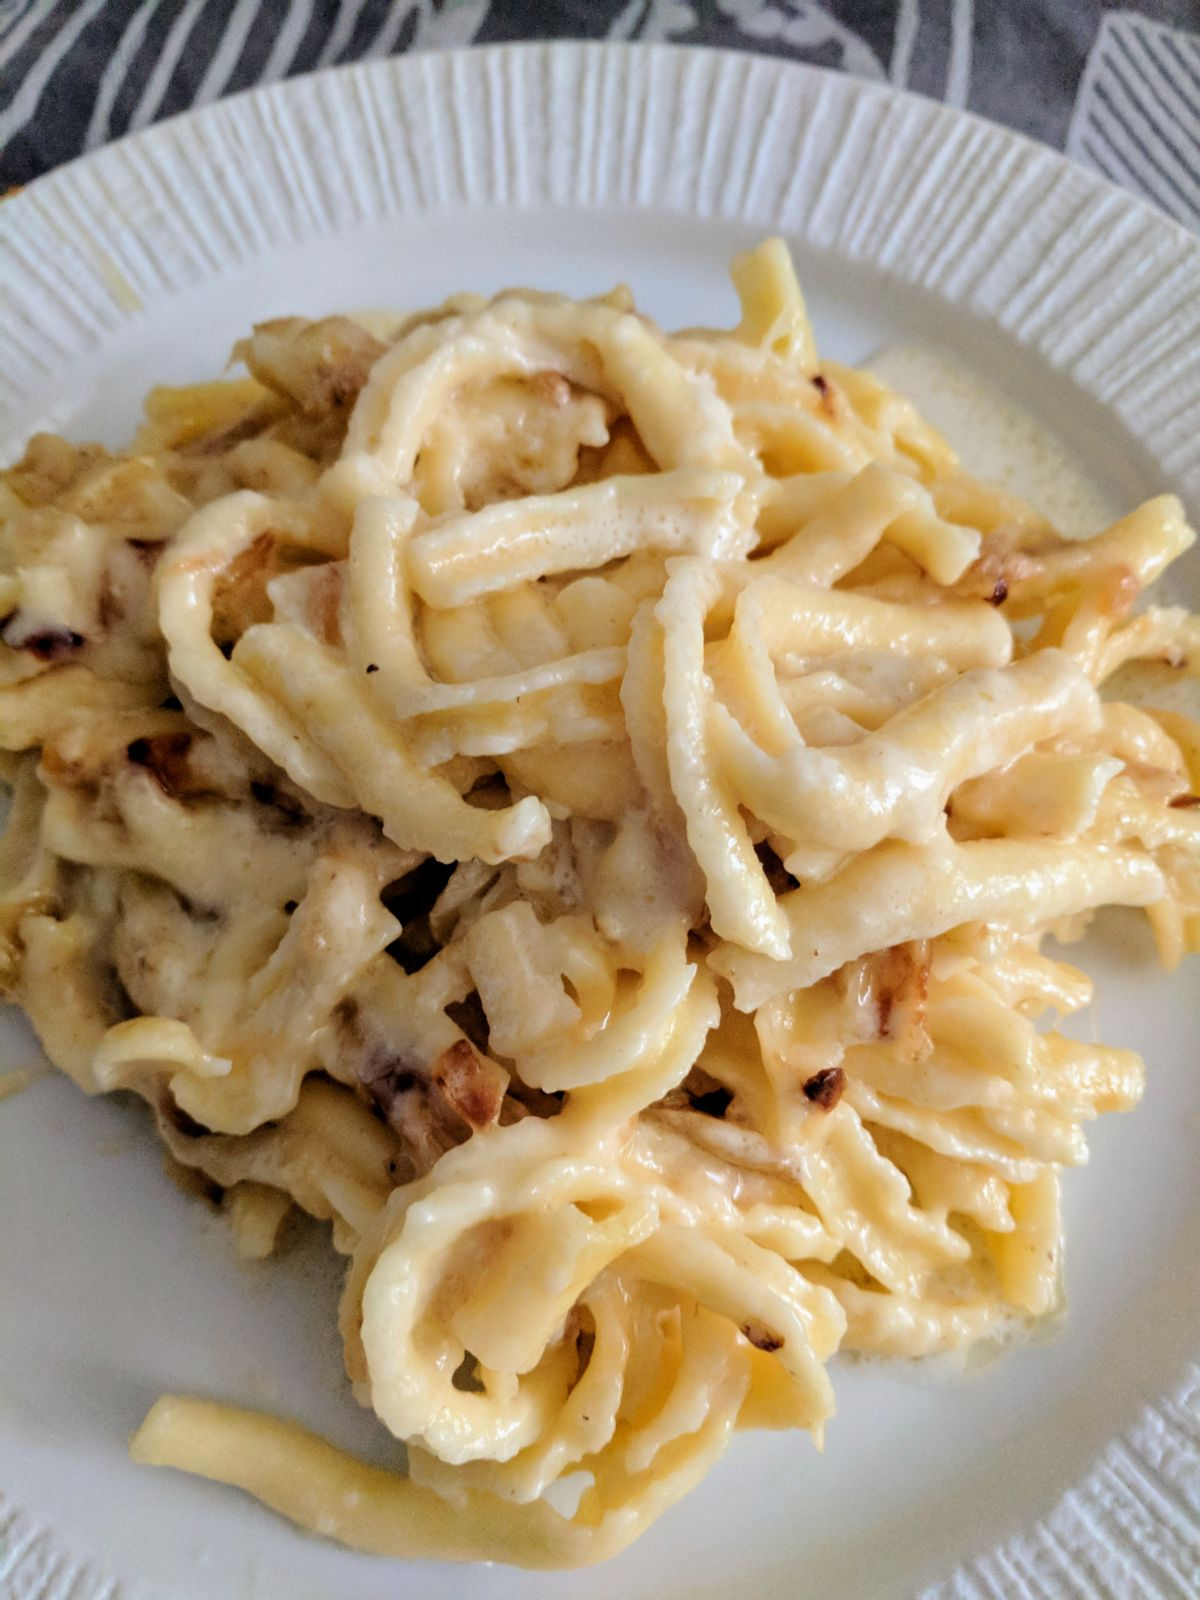
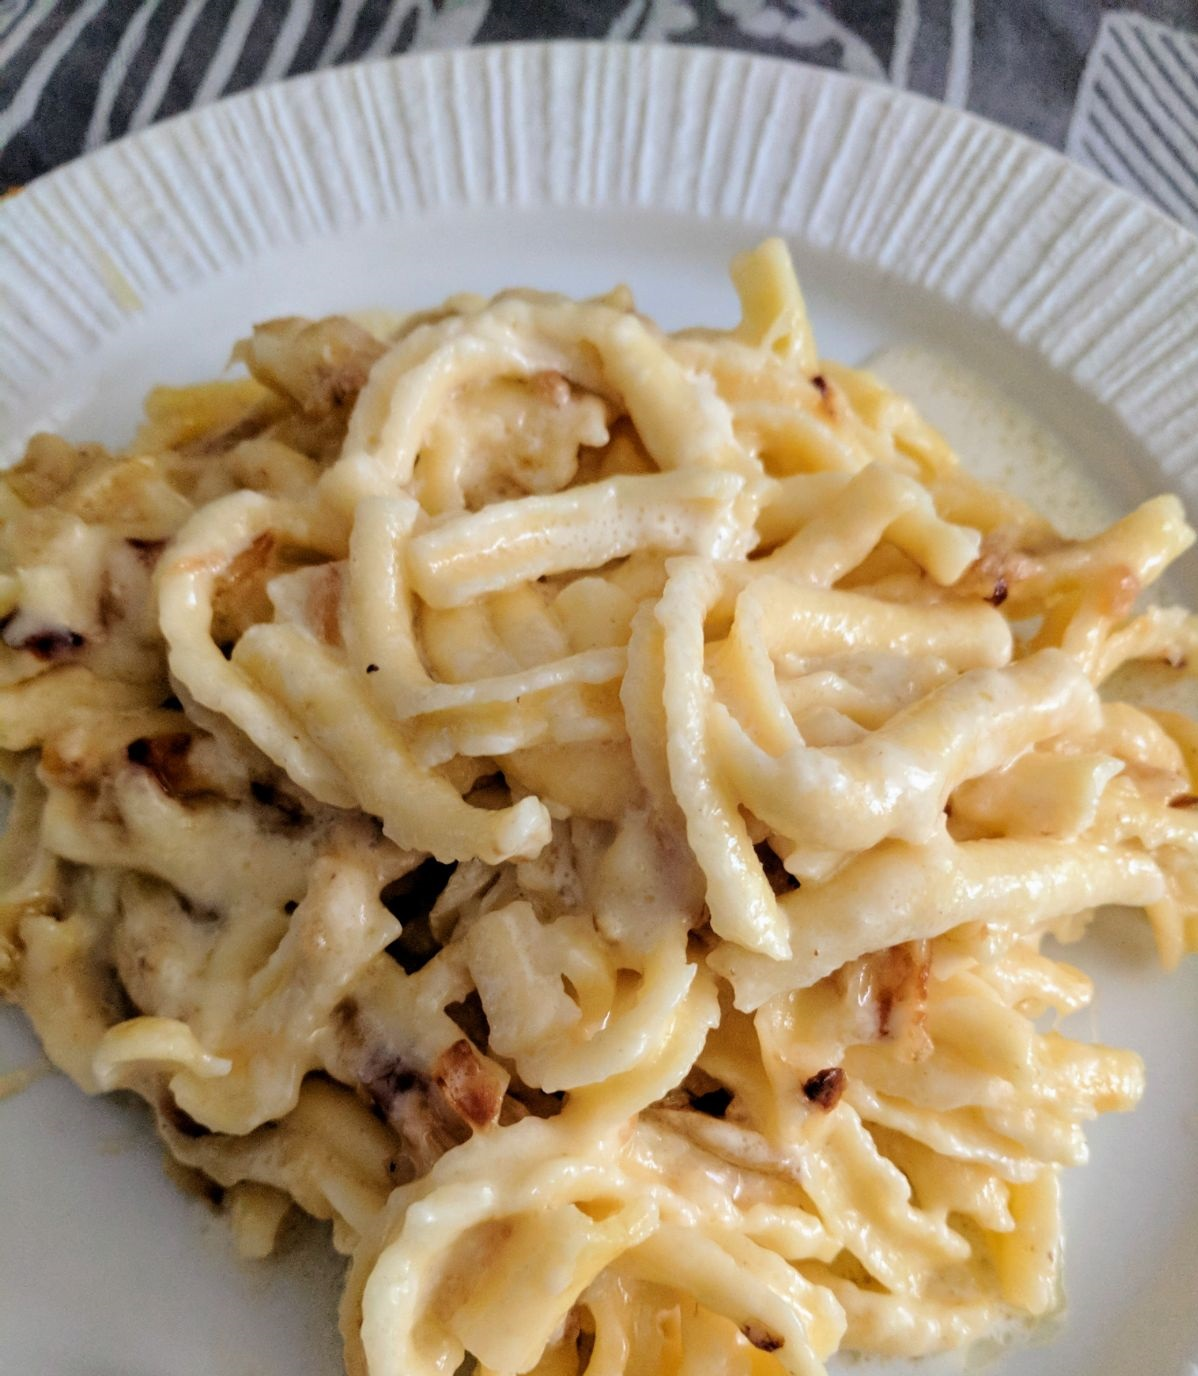
BIlder wurden zugeschnitten und angepasst

diff --git a/03_Hauptgericht_Eier Frikase mit Risi Bisi.html b/03_Hauptgericht_Eier Frikase mit Risi Bisi.html
@@ -100,7 +100,7 @@
         </ul>
         <div class="head row mittig">
             <div class="rahmen">
-            <div><img src="pic/IMG_Eierfrikase mit Risi Bisi_01.JPG" width="680" height="280" class="img-fluid" alt="..."></div>
+            <div><img src="pic/IMG_Eierfrikase mit Risi Bisi_02.jpg" width="680" height="280" class="img-fluid" alt="..."></div>
         </div>
         <div class="seite col-1">
             <div class="ma">

diff --git a/03_Hauptgericht_Gaisburger Marsch.html b/03_Hauptgericht_Gaisburger Marsch.html
@@ -100,7 +100,7 @@
         </ul>
         <div class="head row mittig">
             <div class="rahmen">
-            <div><img src="pic/IMG_Gaisburger Marsch.jpg" width="680" height="280" class="img-fluid" alt="..."></div>
+            <div><img src="pic/IMG_Gaisburger Marsch_02.jpg" width="680" height="280" class="img-fluid" alt="..."></div>
         </div>
         <div class="seite col-1">
             <div class="ma">

diff --git a/01_Suppen_Kartoffelsuppe.html b/01_Suppen_Kartoffelsuppe.html
@@ -100,7 +100,7 @@
         </ul>
         <div class="head row mittig">
             <div class="rahmen"> 
-            <div><img src="pic/IMG_Kartoffelsuppe.jpg" width="680" height="280" class="img-fluid" alt="..."></div>
+            <div><img src="pic/IMG_Kartoffelsuppe_02.jpg" width="680" height="280" class="img-fluid" alt="..."></div>
         </div>
         <div class="seite col-1">
             <div class="ma">

diff --git a/05_Kuchen_Spritzgebäck.html b/05_Kuchen_Spritzgebäck.html
@@ -100,7 +100,7 @@
         </ul>
         <div class="head row mittig">
             <div class="rahmen">
-            <div><img src="pic/IMG_Spritzgebaeck_01.JPG" width="680" height="280" class="img-fluid" alt="..."></div>
+            <div><img src="pic/IMG_Spritzgebaeck_02.JPG" width="680" height="280" class="img-fluid" alt="..."></div>
         </div>
         <div class="seite col-1">
             <div class="ma">

diff --git a/03_Hauptgericht_Kässpätzle.html b/03_Hauptgericht_Kässpätzle.html
@@ -100,7 +100,7 @@
         </ul>
         <div class="head row mittig">
             <div class="rahmen">
-            <div><img src="pic/IMG_Kaesspaetzle.jpg" width="680" height="280" class="img-fluid" alt="..."></div>
+            <div><img src="pic/IMG_Kaesspaetzle_02_.jpg" width="680" height="280" class="img-fluid" alt="..."></div>
         </div>
         <div class="seite col-1">
             <div class="ma">

diff --git a/05_Kuchen_Käsekuchen (ohne Boden).html b/05_Kuchen_Käsekuchen (ohne Boden).html
@@ -100,7 +100,7 @@
         </ul>
         <div class="head row mittig">
             <div class="rahmen">
-            <div><img src="pic/IMG_Kaesekuchen_02.JPG" width="680" height="280" class="img-fluid" alt="..."></div>
+            <div><img src="pic/IMG_Kaesekuchen_03.JPG" width="680" height="280" class="img-fluid" alt="..."></div>
         </div>
         <div class="seite col-1">
             <div class="ma">

diff --git a/04_Desserts_Reissahne mit Früchten.html b/04_Desserts_Reissahne mit Früchten.html
@@ -100,7 +100,7 @@
     </ul>
     <div class="head row mittig">
       <div class="rahmen">
-      <div><img src="pic/IMG_Reissahne mit Fruechten_02.JPG" width="680" height="280" class="img-fluid" alt="..."></div>
+      <div><img src="pic/IMG_Reissahne mit Fruechten_03.JPG" width="680" height="280" class="img-fluid" alt="..."></div>
     </div>
     <div class="seite col-1">
       <div class="ma">
